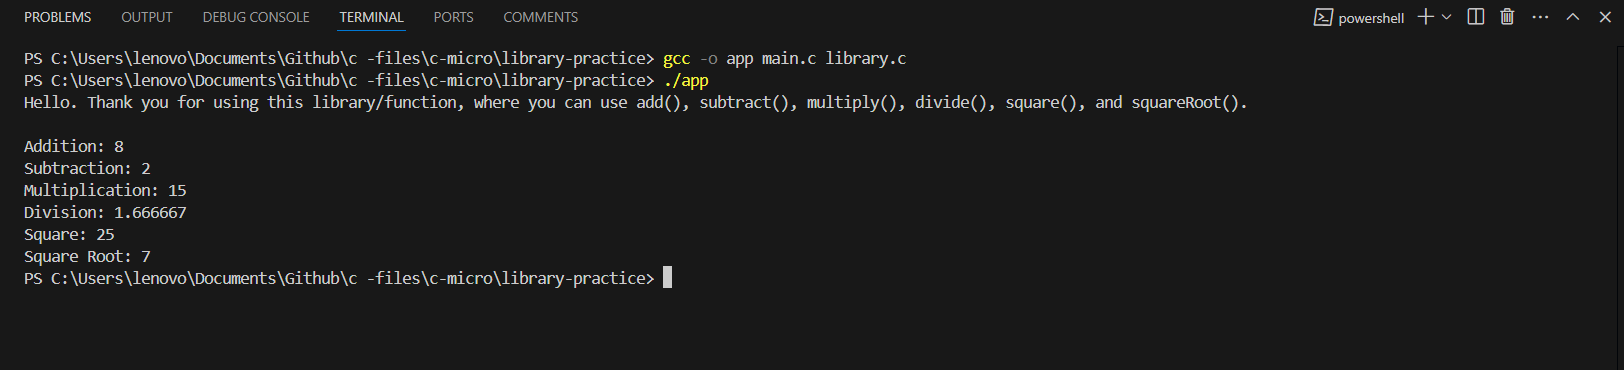
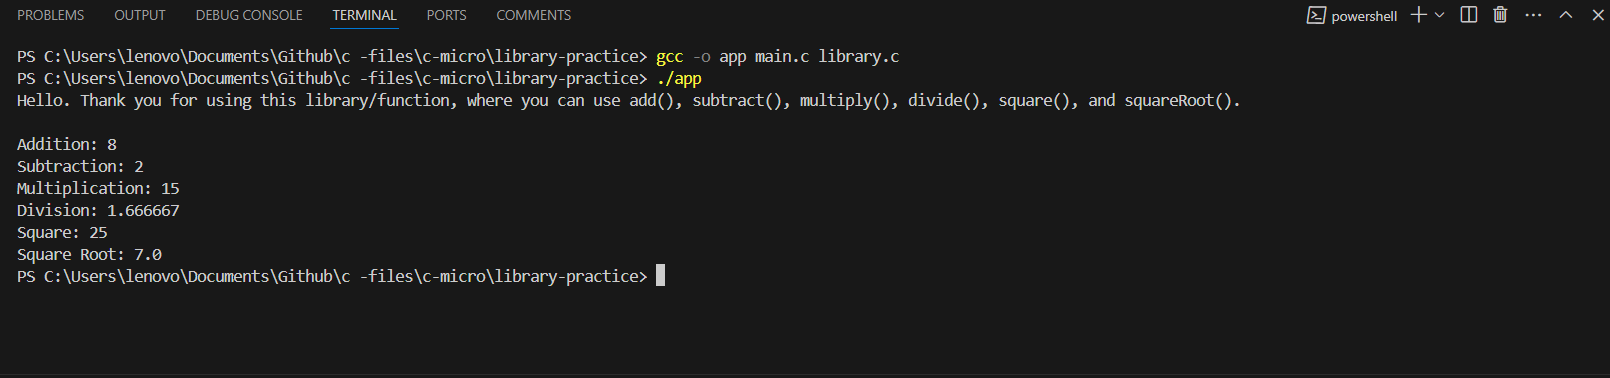
Rename sqrt function to squareRoot and update return type to double

diff --git a/library-practice/main.c b/library-practice/main.c
@@ -11,14 +11,14 @@ int main(){
     int e = multiply(a, b);
     float r = divide(a, b);
     int t = square(a);
-    int y = squareRoot(c);
+    double y = squareRoot(c);
 
     printf("Addition: %d\n", q);
     printf("Subtraction: %d\n", w);
     printf("Multiplication: %d\n", e);
     printf("Division: %f\n", r);
     printf("Square: %d\n", t);
-    printf("Square Root: %d\n", y);
+    printf("Square Root: %.1lf\n", y);
 
 	
 	// printf("%d", add(2, 5));

diff --git a/library-practice/library.h b/library-practice/library.h
@@ -8,6 +8,6 @@ int subtract(int x, int y);
 int multiply(int x, int y);
 float divide(int x, int y);
 int square(int x);
-int squareRoot(int x);
+double squareRoot(int x);
 
 #endif // basic_calcu_lib_h

diff --git a/library-practice/library.c b/library-practice/library.c
@@ -25,7 +25,7 @@ int square(int x) {
 	return x*x;
 }
 
-int sqrt(int x){
+double squareRoot(int x){
 	return sqrt(x);
 }
 
